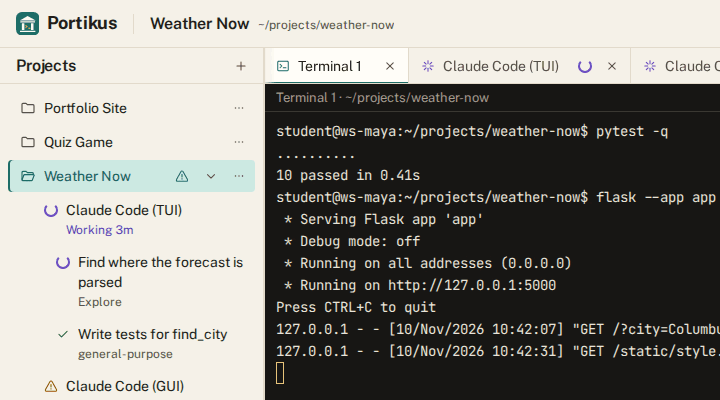
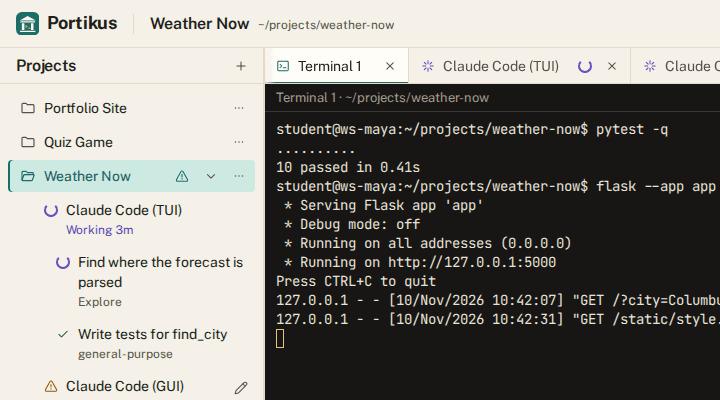
Epic 62 fold: subagent panel, review fixes, new screenshots

diff --git a/apps/web/src/help/content/studentClaudeChat.tsx b/apps/web/src/help/content/studentClaudeChat.tsx
@@ -147,7 +147,8 @@ export const CLAUDE_CHAT_TOPIC: HelpPart["topics"][number] = {
 				<li>
 					Each chat has a title, shown under its name in the project list and on its
 					tab. It starts as Claude Code's own summary of the conversation. To give it
-					your own, choose the pencil beside the chat in the project list, type a name
+					your own, choose the pencil beside the chat in the project list (it appears once
+					the chat has a title; send a message first), type a name
 					and press Enter (Escape cancels), or type{" "}
 					<code className="pk-mono-body">/rename</code> in the chat. Titles are not kept
 					by Portikus; they live in Claude Code's own record in your workspace. A Claude
@@ -155,10 +156,14 @@ export const CLAUDE_CHAT_TOPIC: HelpPart["topics"][number] = {
 				</li>
 				<li>
 					When Claude starts a subagent, a row for it appears under the chat in the
-					project list. Choose the row to watch what the subagent is doing in a panel
-					inside the chat. The view is read-only: to pass it a message, ask Claude in
-					the main chat. A subagent Claude started in the background shows as "Started
-					in the background", with its state, on its card in the conversation.
+					project list, and its card in the conversation has{" "}
+					<strong>Show its conversation</strong>. Either opens a panel over the
+					conversation that follows what the subagent is doing. The panel is read-only:
+					Claude Code cannot send a subagent a message, so to pass one on, ask Claude in
+					the chat. If the subagent starts another, it opens in the same panel, and{" "}
+					<strong>Back</strong> returns. Escape or the close button closes the panel. A
+					subagent Claude started in the background shows as "Started in the
+					background", with its state, on its card.
 				</li>
 				<li>
 					A chat zooms on its own, from 50% to 300%: hold{" "}

diff --git a/apps/web/src/help/content/studentAgentStatus.tsx b/apps/web/src/help/content/studentAgentStatus.tsx
@@ -30,8 +30,8 @@ export const AGENT_STATUS_TOPIC: HelpPart["topics"][number] = {
 					Under each project, the project list also shows each agent tab that has
 					reported, with what it is doing and for how long, such as "Working 4m". Under
 					an agent, its subagents are listed with their description, type and state.
-					Select a row to go to its tab. In a chat, selecting a subagent opens a
-					read-only view of its conversation. Use the arrow button beside a project to
+					Select a row to go to its tab. In a chat, selecting a subagent shows its card
+					and opens a read-only view of its conversation. Use the arrow button beside a project to
 					hide or show its agents. Rows appear after the agent's first report, and Codex
 					shows no subagents.
 				</li>

diff --git a/apps/web/src/help/content/student.test.tsx b/apps/web/src/help/content/student.test.tsx
@@ -163,6 +163,8 @@ test("the chat topic covers versions, titles, subagents, zoom and the ended tab'
 		"Latest",
 		"/rename",
 		"read-only",
+		"Show its conversation",
+		"send a message first",
 		"New terminal here",
 		"Ctrl+Shift+=",
 	]) {

diff --git a/docs/SPEC.md b/docs/SPEC.md
@@ -900,9 +900,9 @@ The left pane must provide:
 - clear selected-project state;
 - project context actions.
 
-Added by Epic 59: under each project's row, the pane lists the project's agent tabs that have reported a state, each with its tab's name, a state mark, and the state with how long it has held ("Working 4m"). A tab gets its row after its first hook, not before. Under each agent are its subagents, with description, type and state; finished ones drop off when the next turn starts. Every row is a link to its tab; a subagent's row in a chat tab opens the read-only subagent panel (section 10.8). One disclosure per project shows or hides the rows; it starts open and is remembered for the page's life only. The rows are a list of links, not a tree, and are not announced as they change (section 25.8).
+Added by Epic 59: under each project's row, the pane lists the project's agent tabs that have reported a state, each with its tab's name, a state mark, and the state with how long it has held ("Working 4m"). A tab gets its row after its first hook, not before. Under each agent are its subagents, with description, type and state; finished ones drop off when the next turn starts. Every row is a link to its tab; a subagent's row in a chat tab opens its chat at the Agent call's tool row and opens the subagent's own conversation in a panel there (section 10.8); closing the panel leaves the keyboard on that tool row. One disclosure per project shows or hides the rows; it starts open and is remembered for the page's life only. The rows are a list of links, not a tree, and are not announced as they change (section 25.8).
 
-Added by Epic 62: a Claude Code (GUI) chat's row shows its conversation title under its name, taken from Claude Code's session (the student's own title from `/rename`, else Claude Code's summary). A pencil beside the row edits the title in place: Enter saves, Escape or leaving the field cancels. A Claude Code (TUI) tab's row keeps its tab name and has no pencil and no title. A subagent row's summary is the description its Agent call gave.
+Added by Epic 62: a Claude Code (GUI) chat's row shows its conversation title under its name, taken from Claude Code's session (the student's own title from `/rename`, else Claude Code's summary). Once the chat has a title, a pencil beside the row edits it in place: Enter saves, Escape or leaving the field cancels (leaving does not move focus); a chat with no title has no pencil, because Claude Code cannot rename a session it has not written yet. A Claude Code (TUI) tab's row keeps its tab name and has no pencil and no title. A subagent row's summary is the description its Agent call gave.
 
 ### 8.3 Center pane
 
@@ -951,7 +951,7 @@ Added by Epic 58 (ADR 0069): "New tab" offers "Claude Code (GUI)", a chat tab, b
 
 Added by Epic 58.1: each tool call in a chat is one light line with no box: an icon for the kind of tool and a plain sentence, such as "Read useDashboardQuery.ts", "Ran pnpm vitest run", "Edited useDashboardQuery.ts +1 −3" or "Searched for useDashboardQuery". A finished call shows no state word; a running one says what it is doing ("Running pnpm test") beside a spinner, and a failed or stopped one names its action ("Run pnpm test") and shows its state. An opened row gives a file's full path, leaves out a one-line command the row already shows, and says nothing about output under an edit or a write. A new chat lists three starter prompts under its privacy sentence; a click puts one in an empty message box to edit and never sends it, and never replaces a draft already typed. "Jump to latest" is a round down-chevron button at the right of a strip of its own below the conversation, so it never covers a message, with a dot when something new arrived while the student was reading back.
 
-Added by Epic 62: a background Agent call shows "Started in the background" with the subagent's state (as in section 8.2) and its prompt; the text Claude Code returns for the model is kept behind a closed Raw output disclosure. A foreground subagent's card shows its final reply.
+Added by Epic 62: a background Agent call shows "Started in the background" with the subagent's state (as in section 8.2) and its prompt; the text Claude Code returns for the model is kept behind a closed Raw output disclosure. A foreground subagent's card shows its final reply. Every Agent card, foreground or background, offers "Show its conversation" (not one that failed before a subagent started), which opens the subagent's conversation read-only in a panel over the chat's log. A subagent it started opens in the same panel with Back. The panel says Claude Code cannot message a subagent and to ask Claude in the chat to pass a message on.
 
 Added by Epic 58.2: two or more tool calls in a row, with no text between them, sit under one native disclosure that names the count and the tools used (or the running step, and any failures); each call keeps its own row inside. The "Claude" byline shows once per run of Claude's work, reloaded history included. The polite announcement still says only "Claude is working".
 
@@ -1479,9 +1479,9 @@ Added by Epic 59 (ADR 0070): a second hook script, `portikus-agent-subagent`, re
 
 Added by Epic 62: the chat host sends a `models` event (at most 50 rows) from Claude Code's `supportedModels()` before the settings, so the Model and Version pickers list what Claude Code offers. A model is a string of at most 100 characters holding the SDK's value exactly: a short name (`opus`) means Latest and a full ID (`claude-opus-4-8`) pins a version. Until the list arrives, the picker keeps the last list, or shows Default and the current model. The host keeps the model value the student chose; Claude Code's init message does not overwrite it with the full ID.
 
-Added by Epic 62 (ADR 0074): the chat host reads the conversation title from Claude Code's session (`customTitle`, else `summary`) when its session starts, after each result and after `/clear`, cleans it to one line of at most 80 characters, and passes it to the workspace agent, which holds it in memory beside the terminal's state and sends it on the status path. A chat tab's label is its title once it has one. Renaming from the left pane and typing `/rename` in the chat set the same title; the pencil sends a `rename` message, and the host strips control characters before it calls the SDK. A rename error goes back only to the asking socket.
+Added by Epic 62 (ADR 0074): the chat host reads the conversation title from Claude Code's session (`customTitle`, else `summary`) when its session starts, after each result and after `/clear`, cleans it to one line of at most 80 characters, and passes it to the workspace agent, which holds it in memory beside the terminal's state and sends it on the status path. A chat tab's label is its title once it has one. Renaming from the left pane and typing `/rename` in the chat set the same title; the pencil sends a `rename` message, and the host strips control characters and format characters such as bidi overrides and zero-width spaces (a zero-width joiner stays, so emoji survive) before it calls the SDK. The host answers with `rename.result` (`ok`, an optional message of at most 200 characters), sent only to the asking socket and carrying no sequence number; a rename of a chat whose session file does not exist yet is answered "Send a message first, then rename it." Switching to a model that does not support Auto while in Auto moves the chat to Ask.
 
-Added by Epic 62: clicking a subagent row in the left pane opens the subagent panel inside the parent chat. It shows the subagent's whole conversation read-only, with a note to ask Claude in the main chat to pass a message on, because Claude Code has no way to message a subagent. A nested subagent opens in the same panel, with a Back button. The browser asks with `subagent.watch` and `subagent.unwatch`; the host sends `subagent` events only to sockets that asked, outside the main conversation's sequence check, and replays the history from Claude Code's own record.
+Added by Epic 62: the client may send `subagent.watch` and `subagent.unwatch` naming an Agent call (an id of at most 200 characters, used only as a lookup key). The host turns on the SDK's `forwardSubagentText` and sends that socket `subagent` frames, each wrapping a snapshot, turn, message or tool event numbered on a sequence of its own, so the chat's own sequence never has a gap: first the subagent's transcript from `getSubagentMessages` (at most its last 500 entries, with images kept only for the last 20), then live events. One watch per attachment; a new watch replaces the last. A watch is found again after a host restart from each subagent transcript's first entry. `/clear` ends each running subagent's view as interrupted. Subagent text is held in memory only and never logged (STACK.md section 15).
 
 Added by Epic 59 (ADR 0068): plan usage is the seven-day window only; Claude no longer has a five-hour limit in the bar. The workspace agent reports a list keyed by provider id (the agent id), so a later provider adds only a source: Claude's figure from the chat host (the SDK's usage request, run one at a time with a ten-second limit, and `rate_limit_event`) or the status line, and Codex's from `account/rateLimits/read`. The status bar shows each provider's percent and reset day and time ("Claude 91% resets Thu 7:21 PM"), hides a figure past its reset time, and warns once at 85 percent. Today's tokens and cost show only when a provider reports no plan figure. The workspace agent and the API are upgraded together, because the report and meter shapes changed.
 
@@ -4383,7 +4383,7 @@ Backpressure: in the terminal pipe and in the language-server pipe the API stops
 
 Added by Epic 58 (ADR 0069): the chat socket is owner-only, copying the language-server socket: administrators, instructors, share viewers and live-help helpers are refused, a helper sees no chat tab, and the API answers 404 before the upgrade for a missing, other-workspace or non-chat terminal. This holds at the API; it is not a guarantee against other processes of the same user inside the workspace, which can reach the host's socket. The platform logs and stores no prompt, answer, file content or image of a chat (STACK.md section 15, ADR 0012); history lives only in Claude's own transcripts in the workspace. Assistant Markdown is untrusted: raw HTML is shown as text, only http and https links are kept, and an image is drawn only from the student's own files through the owner-only image route (a remote or `data:` image is named, never loaded), so a prompt-injected image link cannot send data out. These rules apply to the parsed document, so code keeps image and link syntax as written.
 
-Added by Epic 62 (ADR 0074): a chat's title is drawn from the student's prompts; it is held in memory and shown to the owner only, never logged or stored by Portikus.
+Added by Epic 62 (ADR 0074): a chat's title is drawn from the student's prompts; it is held in memory and shown to the owner only, never logged or stored by Portikus. A subagent's conversation, sent only to a socket that asked to watch it, is held the same way.
 
 Added by Epic 58.1: assistant Markdown may show the student's own local images, so Claude can show a screenshot it saved. An image target that is a path relative to the project, or an absolute path under the home folder, loads through `GET /workspaces/:id/projects/:pid/image?path=`, which is owner-only exactly like the file routes (404 for anyone else). The API refuses a path with a `.` or `..` segment or an extension other than png, jpg, jpeg, gif or webp before calling the workspace agent. The agent resolves the path with realpath, refuses anything whose real path leaves the home folder (so a symlink cannot escape), opens it without following a link, refuses a non-regular file or one over 5 MiB, and checks the first bytes match the extension, so SVG, HTML or a renamed file is never served. The API sends the bytes with the extension's image type, `nosniff`, `private, no-store` and the inline sandbox policy. This widens what a reply can load from nothing to the student's own image files; it cannot reach another user's files or anything outside the home folder, and nothing is copied into or kept by the platform. A remote http(s) or data: image is still never loaded and shows "Remote image not shown: <host>"; a refused or missing one shows "Image not found: <path>". The agent instructions tell Claude to save images it wants to show under `.portikus/images/` in the project and link them by relative path.
 
@@ -5484,7 +5484,7 @@ Added by Epic 58.1: a question card shows one question at a time. Focus starts o
 
 Added by Epic 59: the left pane's agent rows are a list of links named "Agents in <project>", with one `aria-expanded` disclosure per project. The state is part of each link's name, the full agent name is in it even where the visible name is cut at two lines (keyboard focus shows it whole), the link of the agent on show carries `aria-current="page"`, and the ticking time is hidden from assistive technology. The composer is a `combobox` while its `/` or `@` list can show, with `aria-expanded`, `aria-controls` and `aria-activedescendant`; the list is a `listbox`, the editor keeps focus and the keys, and a polite status gives the result count. Deny's reason field is labelled, Enter sends it and Escape returns focus to Deny; digits are ordinary text while it is open. A `!` command is a named group with its output in a focusable, named region, and its end is announced ("Command finished", "Command failed with exit code N"). Shell mode is shown by a label and the type, not colour alone, and is said once. Syntax colours meet 4.5:1 on their backgrounds in both themes, and the language is named in text. The read-aloud switch and speaker button are native controls in the Tab order, and stopping speech never needs a timed action. The context meter is a `Meter` named "Context"; the context and cache readouts hide their ticking digits from assistive technology and announce only the cache going cold and context crossing 75 and then 90 percent, once each (the figures "34.2k / 1M" are hidden; the meter's value reads "about 34 thousand of 1 million tokens"); the "files changed" line is a native disclosure whose counts are spelled out. A status-bar plan figure's name starts with its visible text.
 
-Added by Epic 62: on a narrow screen the pane bar's drawer buttons are named "Show projects" and "Show files", so a control and the region it opens never share a name; the visible words stay "Projects" and "Files". Icon-only controls such as the Checks pencil ("Edit checks") have a tooltip that opens on hover and on focus. A Git letter, a folder's dot and a file-type icon carry words for screen readers and on hover, and the letter, not its colour, says the kind; they keep 4.5:1 on the pane, hovered, selected and conflict rows in both themes. Monitor's rows are 26 px with 24 px buttons.
+Added by Epic 62: on a narrow screen the pane bar's drawer buttons are named "Show projects" and "Show files", so a control and the region it opens never share a name; the visible words stay "Projects" and "Files". Icon-only controls such as the Checks pencil ("Edit checks") have a tooltip that opens on hover and on focus. A Git letter, a folder's dot and a file-type icon carry words for screen readers and on hover, and the letter, not its colour, says the kind; they keep 4.5:1 on the pane, hovered, selected and conflict rows in both themes. Monitor's rows are 26 px with 24 px buttons, and a figure near its limit also carries the alert icon (decorative; the words stay). A pane's zoom button or zoom key announces the new zoom in a polite status ("Terminal 1 zoom 130%"); the wheel and a pinch say nothing. The subagent panel takes the keyboard on its heading as it opens; Escape or its close button closes it and returns the keyboard to what opened it, and the log behind it is inert while it is open. A polite status says whether the subagent is working or finished.
 
 ### 25.9 Browser support
 

diff --git a/docs/STATUS.md b/docs/STATUS.md
@@ -83,7 +83,7 @@ that is not a gap in something built goes in a GitHub issue instead.
 - **Epic 59, agent rows and chat.** Agent and subagent rows in the left pane, and a chat batch with `!` shell commands, `@` file mentions and changed-file lists (ADRs 0070 to 0073).
 - **Epic 60, documentation refresh.** The guides, the in-app Help and the documentation images brought up to date, and this file cut down to this form.
 - **Epic 61, UI refresh.** A new look for the student and administrator screens in both themes: a warm palette with teal actions and a violet agent hue, a type scale, a context meter in the chat composer and clearer admin pages (DESIGN.md section 11).
-- **Epic 62, fix batch after the UI refresh.** Claude Code's own model list with a Version picker, chat titles with a pencil rename, per-pane zoom, an always-shown context meter, coloured Git letters and file-type icons, a tinted Monitor, and fixes for the phone drawer names, the ended chat tab and the Dex logo cache (ADR 0074).
+- **Epic 62, fix batch after the UI refresh.** Claude Code's own model list with a Version picker, chat titles with a pencil rename, per-pane zoom, an always-shown context meter, coloured Git letters and file-type icons, a tinted Monitor, a read-only panel for watching a subagent, and fixes for the phone drawer names, the ended chat tab and the Dex logo cache (ADR 0074).
 
 ## Open items
 
@@ -163,6 +163,9 @@ list was made and may already be fixed.
 - The `@` menu lists files only, with no recency boost, and does not work in shell mode. A `!` command cannot be sent while Claude works and has no standard input. `/resume` stays terminal-only.
 - Files changed does not count deleted files or changes made by shell commands.
 - A typed message that contains `<bash-input>` text replays as a shell item on reload (display only).
+- Subagent frames re-render the whole chat view while the subagent panel is open.
+- More than 256 running subagents drop from the running list.
+- Accepted: Escape closes the subagent panel only when focus is inside it.
 - A model row from Claude Code whose value ends in `[1m]` would be listed as its own family and never highlight (only if Claude Code lists such rows).
 - Unread marks do not survive a reload, and usage warnings are remembered per browser, not per user.
 
